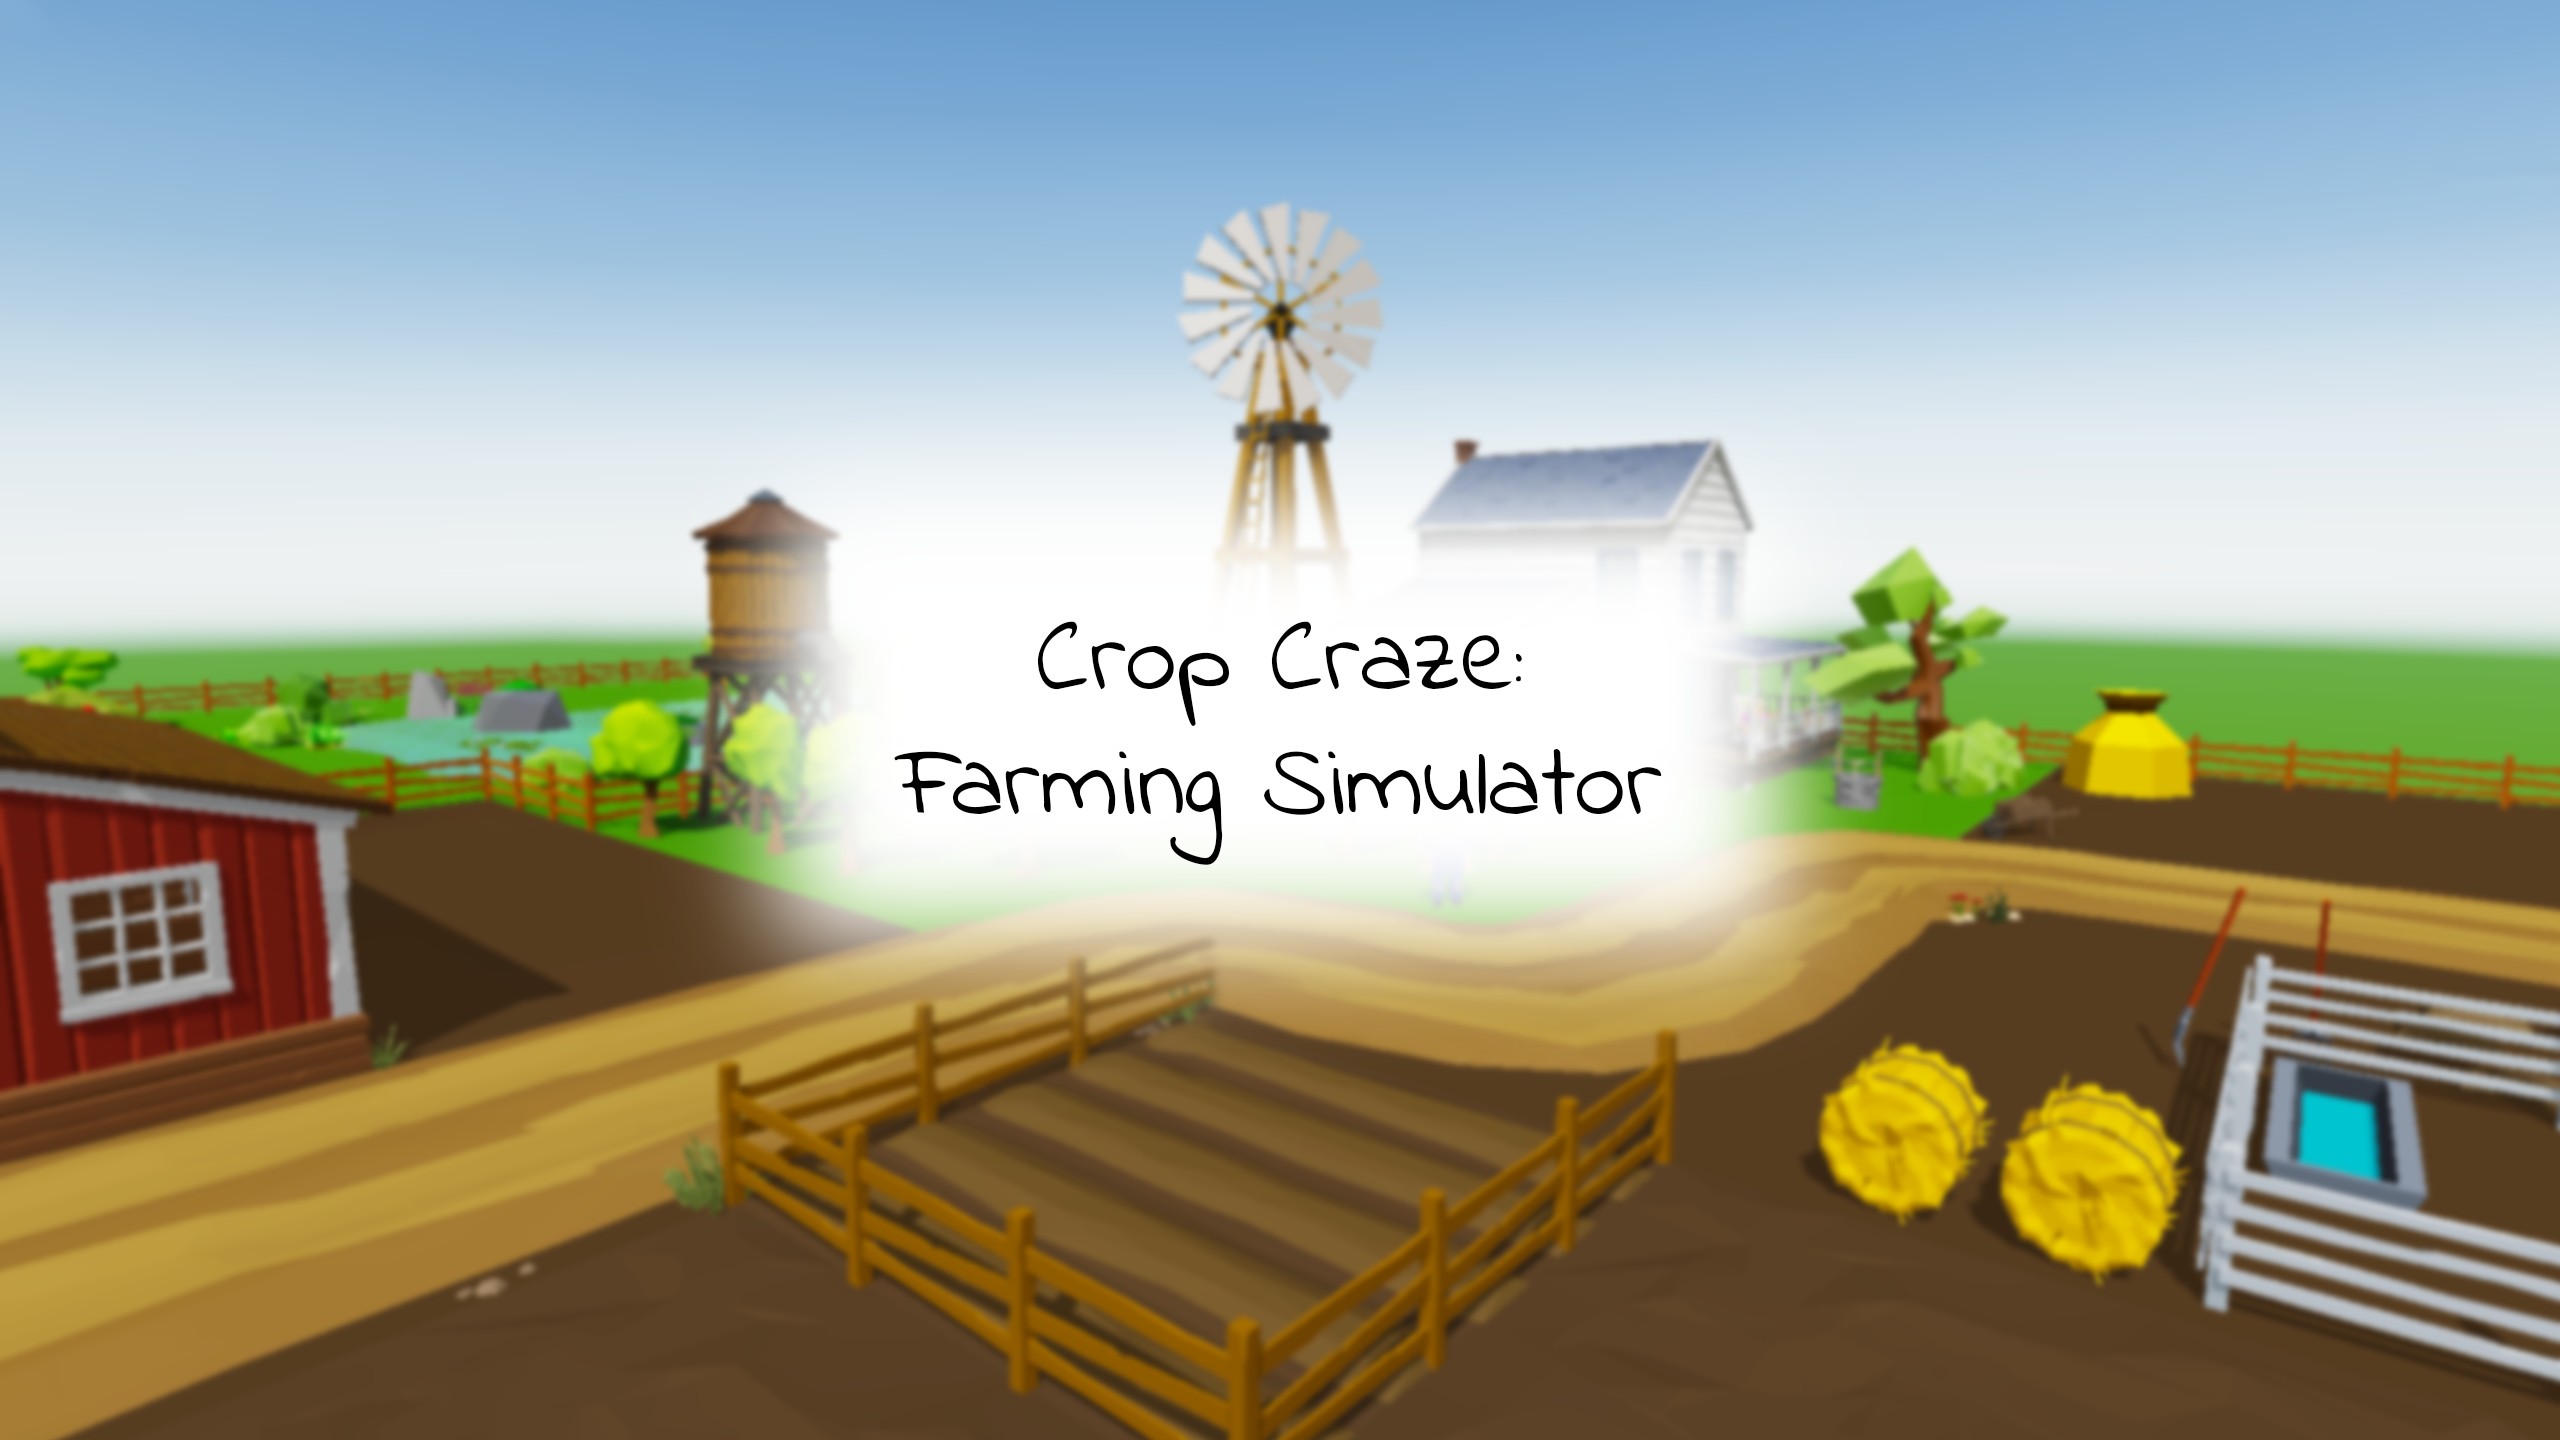
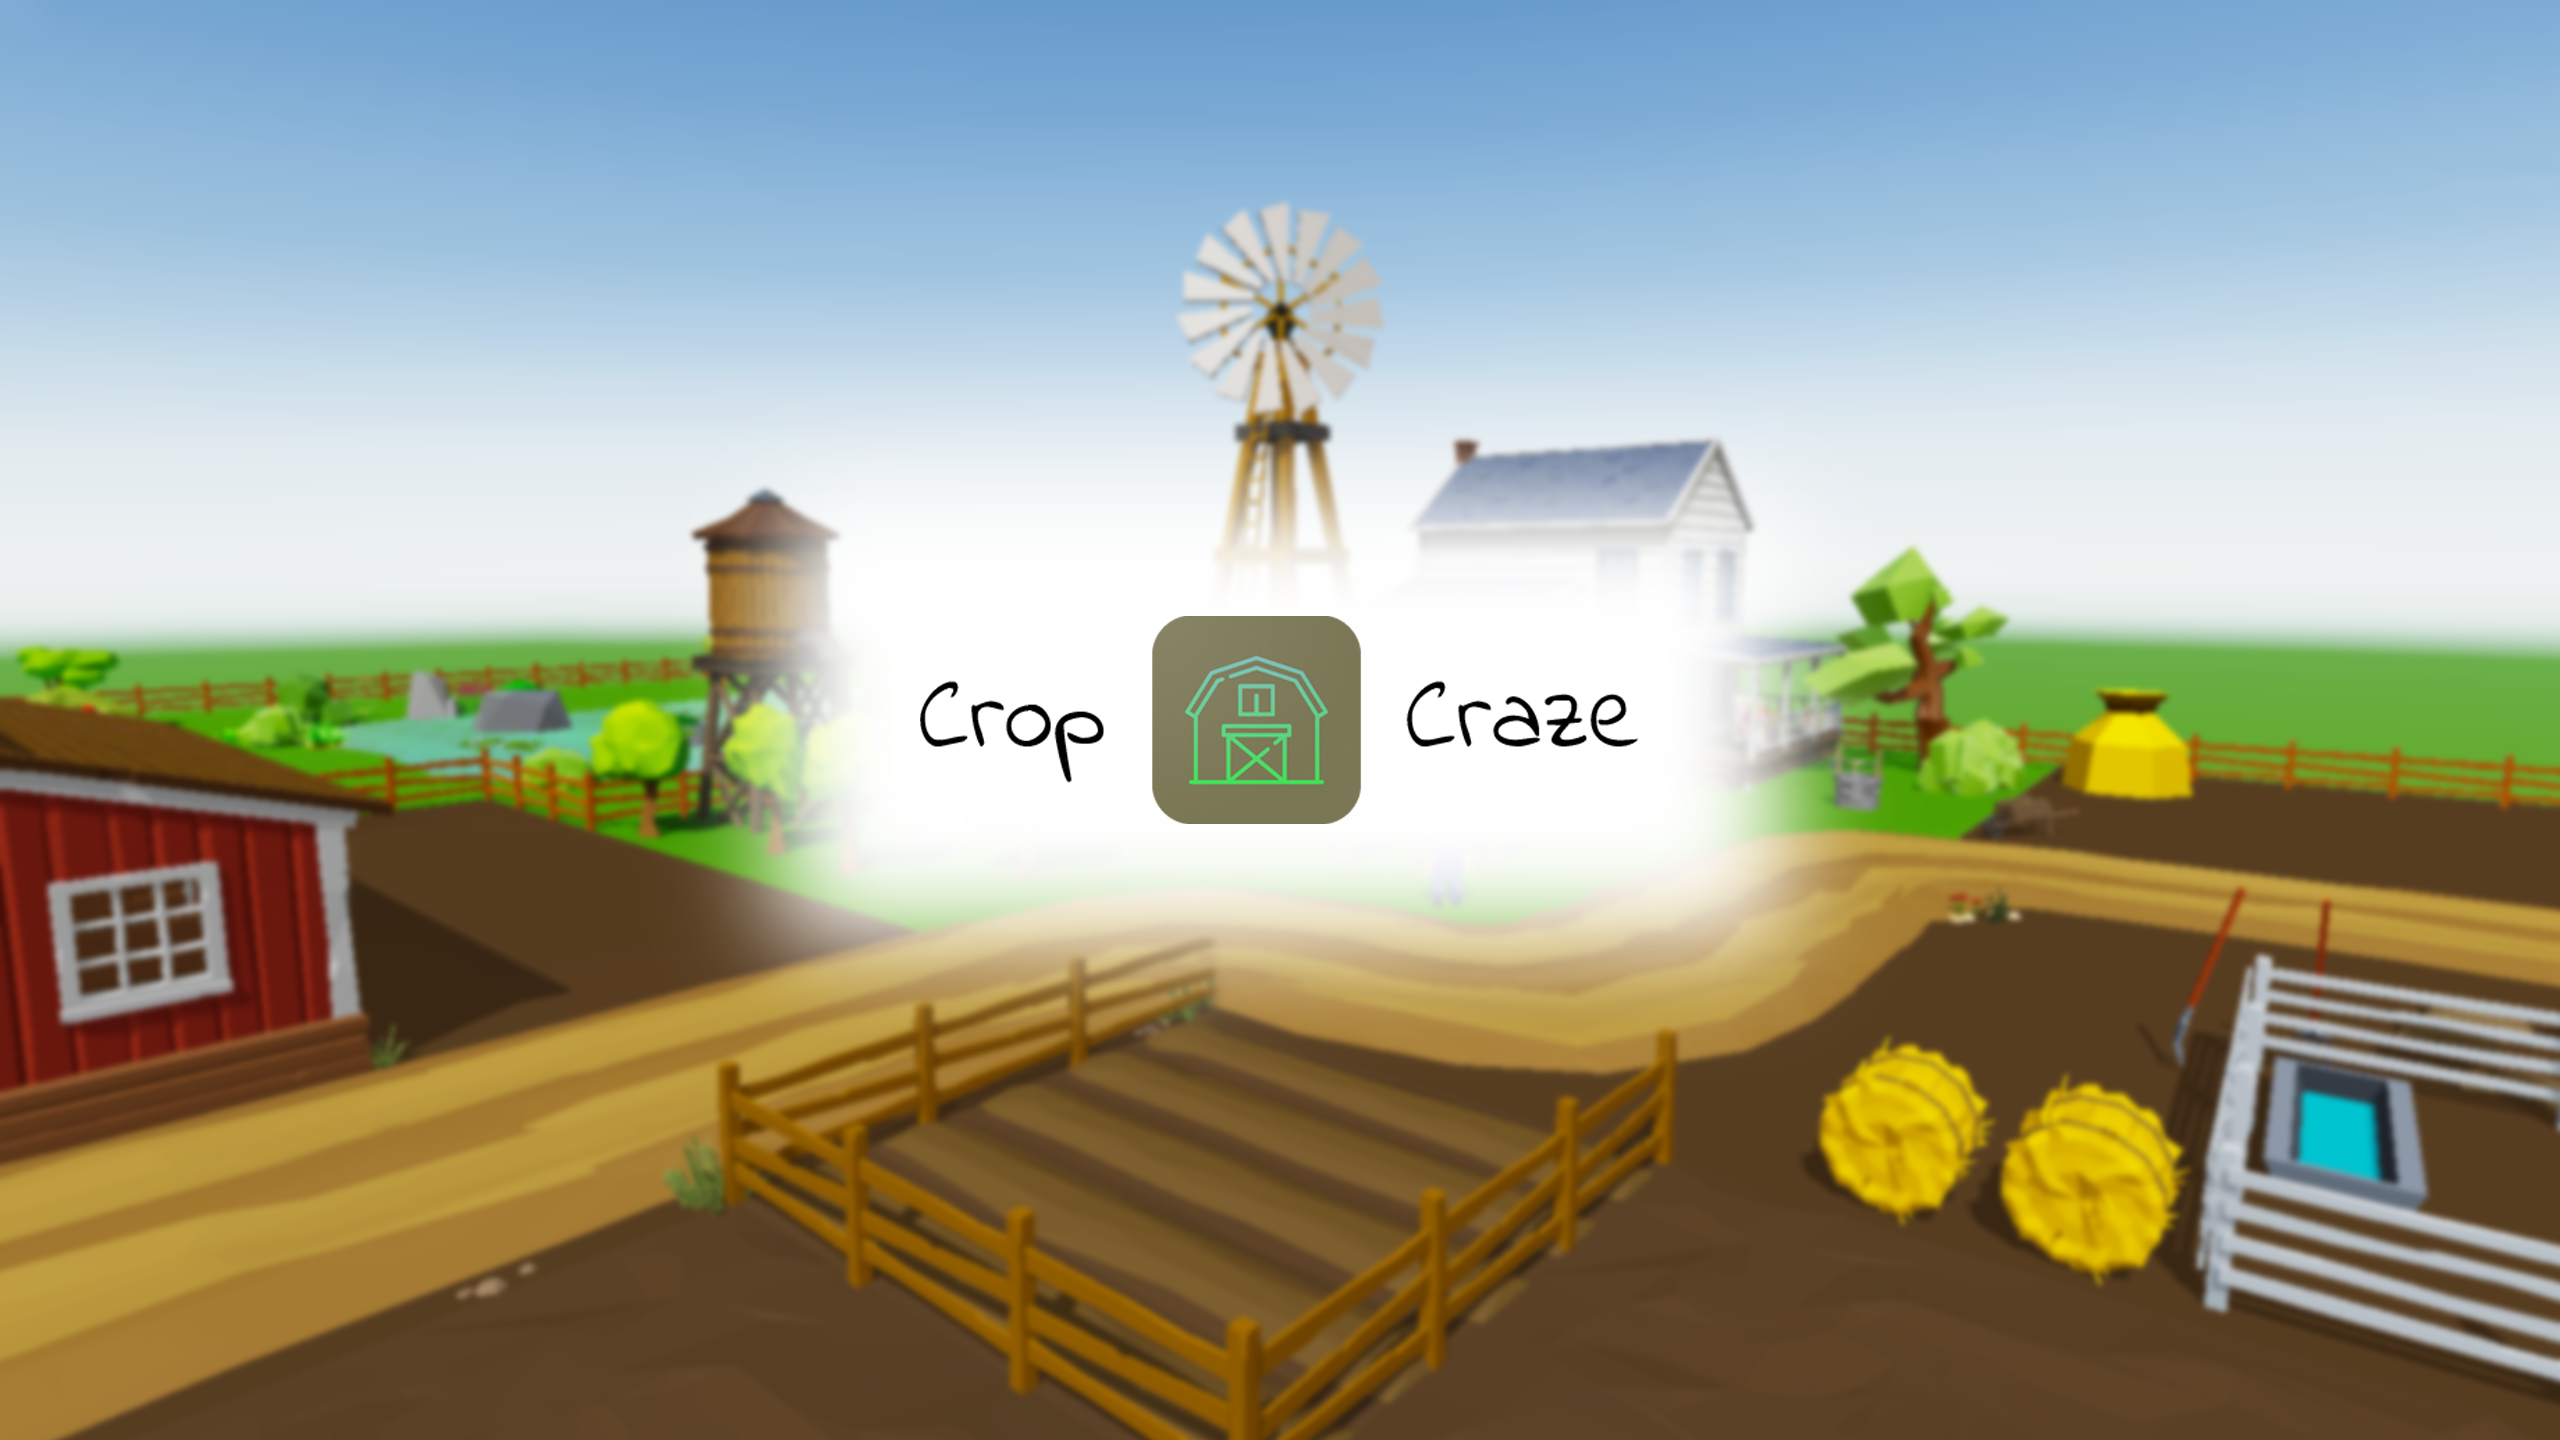
Fixed Crop Craze trademark issue

Changed region(s): [[0.3438, 0.4062, 0.6562, 0.5938]]

diff --git a/farm-game.html b/farm-game.html
@@ -114,15 +114,15 @@
 				Crop Craze is releasing on February 11th, 2021 for $9.99! It will be available on the following platforms:
 				<ul>
 					<li>Oculus Store - Buy Crop Craze on the Oculus Store if you have a Rift, Rift S, or using Quest Link</li>
+					<li>Meta Quest Store - Search for Crop Craze and find it in App Labs!</li>
 					<li>itch.io - Buy Crop Craze on itch.io if you have a SteamVR headset like the HTC Vive or Valve Index</li>
 					<li>SideQuest - Buy Crop Craze on SideQuest if you have a Quest 1 or Quest 2</li>
-					<li>Coming soon: Quest App Labs</li>
 				</ul>
 			</p>
 			<p>
-				Crop Craze is the first fully immersive Virtual Reality farming simulator.
+				Crop Craze is the first fully immersive Virtual Reality farm simulator.
 				Plant crops, feed animals, complete upgrades, and more in this brand-new game!
-				In Crop Craze, PicoPlanetDev's new VR farming simulator,
+				In Crop Craze, PicoPlanetDev's new VR farm simulator,
 				you can buy seeds, grow crops, and sell them. Experience a serene view
 				of the countryside and take a break from farming to roast marshmallows
 				by the fire pit. Upgrade your farm to boost profit, buy animals for a
